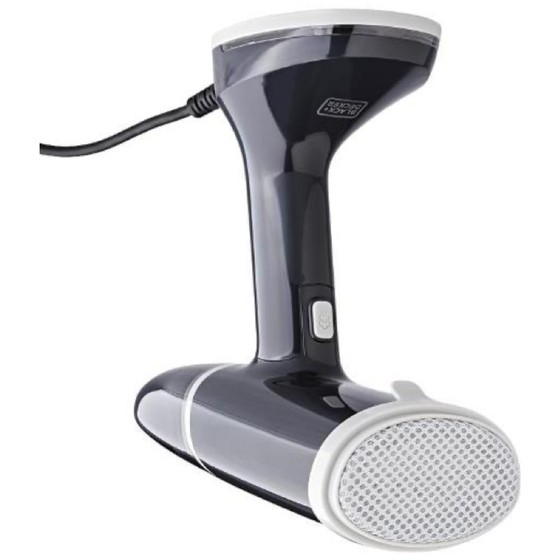
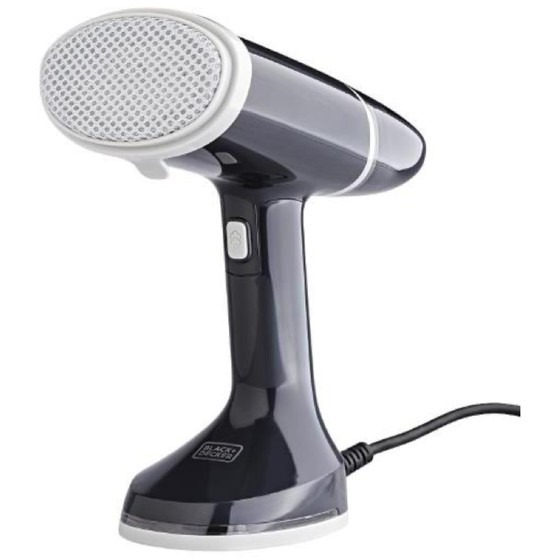
Corrige orientação das fotos de presentes que estavam invertidas.

diff --git a/loja.html b/loja.html
@@ -1402,7 +1402,7 @@ QNL 06 Chácara 18 - Taguatinga, Brasília - DF</a></p>
 
 			function loadShop() {
 				return Promise.all([
-					fetch('items.json?v=9').then(function (response) {
+					fetch('items.json?v=10').then(function (response) {
 						if (!response.ok) {
 							throw new Error('items');
 						}

diff --git a/media/jp/jp-admin.js b/media/jp/jp-admin.js
@@ -103,7 +103,7 @@
   }
 
   function fetchCatalogItems() {
-    return fetch('/items.json?v=9')
+    return fetch('/items.json?v=10')
       .then(function (response) {
         return response.json().then(function (data) {
           if (!response.ok) {
